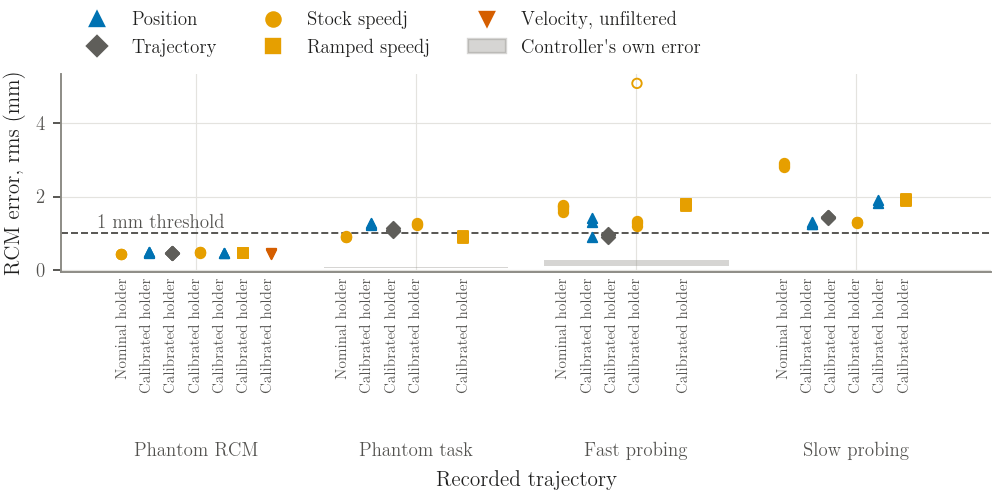
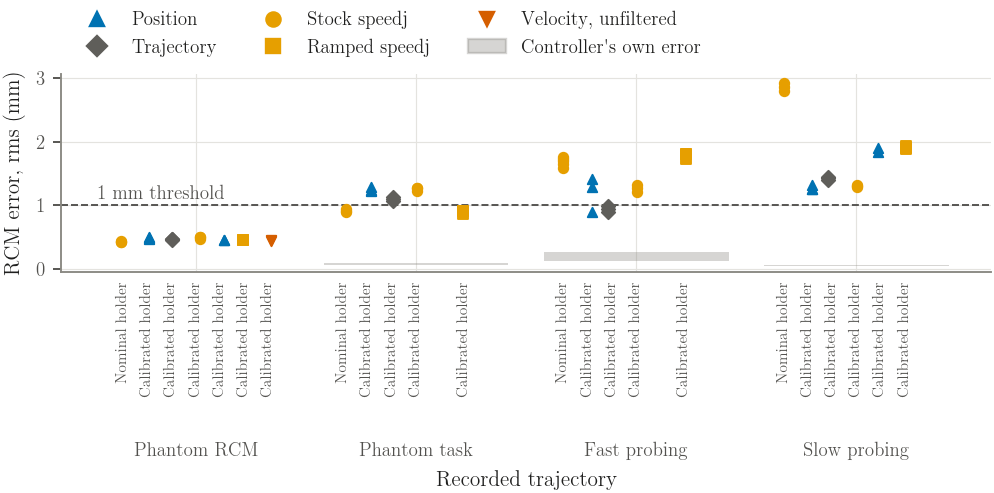
R02: leave excluded runs out of the strip plot (figures as in the submitted report)

diff --git a/thesis/results/4.3_rcm/R02_tracked_rcm_error/analysis.py b/thesis/results/4.3_rcm/R02_tracked_rcm_error/analysis.py
@@ -179,7 +179,7 @@ def main():
     cl = conds
     cal_days = sorted({c[0] for c in cl if c[2] != 'nominal'})
     for i, s in enumerate(SETS):
-        v = [o for o in out if o['set'] == s]
+        v = [o for o in out if o['set'] == s and not o['excluded']]
         cc = [o['ctrl_mm'] for o in v if np.isfinite(o['ctrl_mm'])]
         if cc:
             ax.fill_between([i - 0.42, i + 0.42], min(cc), max(cc), color=MUTED, alpha=0.35, lw=0)
@@ -189,7 +189,7 @@ def main():
             st = STRIP_STYLE.get(c[1], STRIP_STYLE['position'])
             for o in vv:
                 ax.scatter(x + np.random.default_rng(len(o['key'])).uniform(-0.02, 0.02), o['rms'], s=16,
-                           marker=st['marker'], facecolor='none' if o['excluded'] else st['color'],
+                           marker=st['marker'], facecolor=st['color'],
                            edgecolor=st['color'], lw=0.8, zorder=3)
             if vv:
                 ax.text(x, -0.2, setting_label(c[2], c[0], cal_days), rotation=90, fontsize=6.5, color=INK2,
